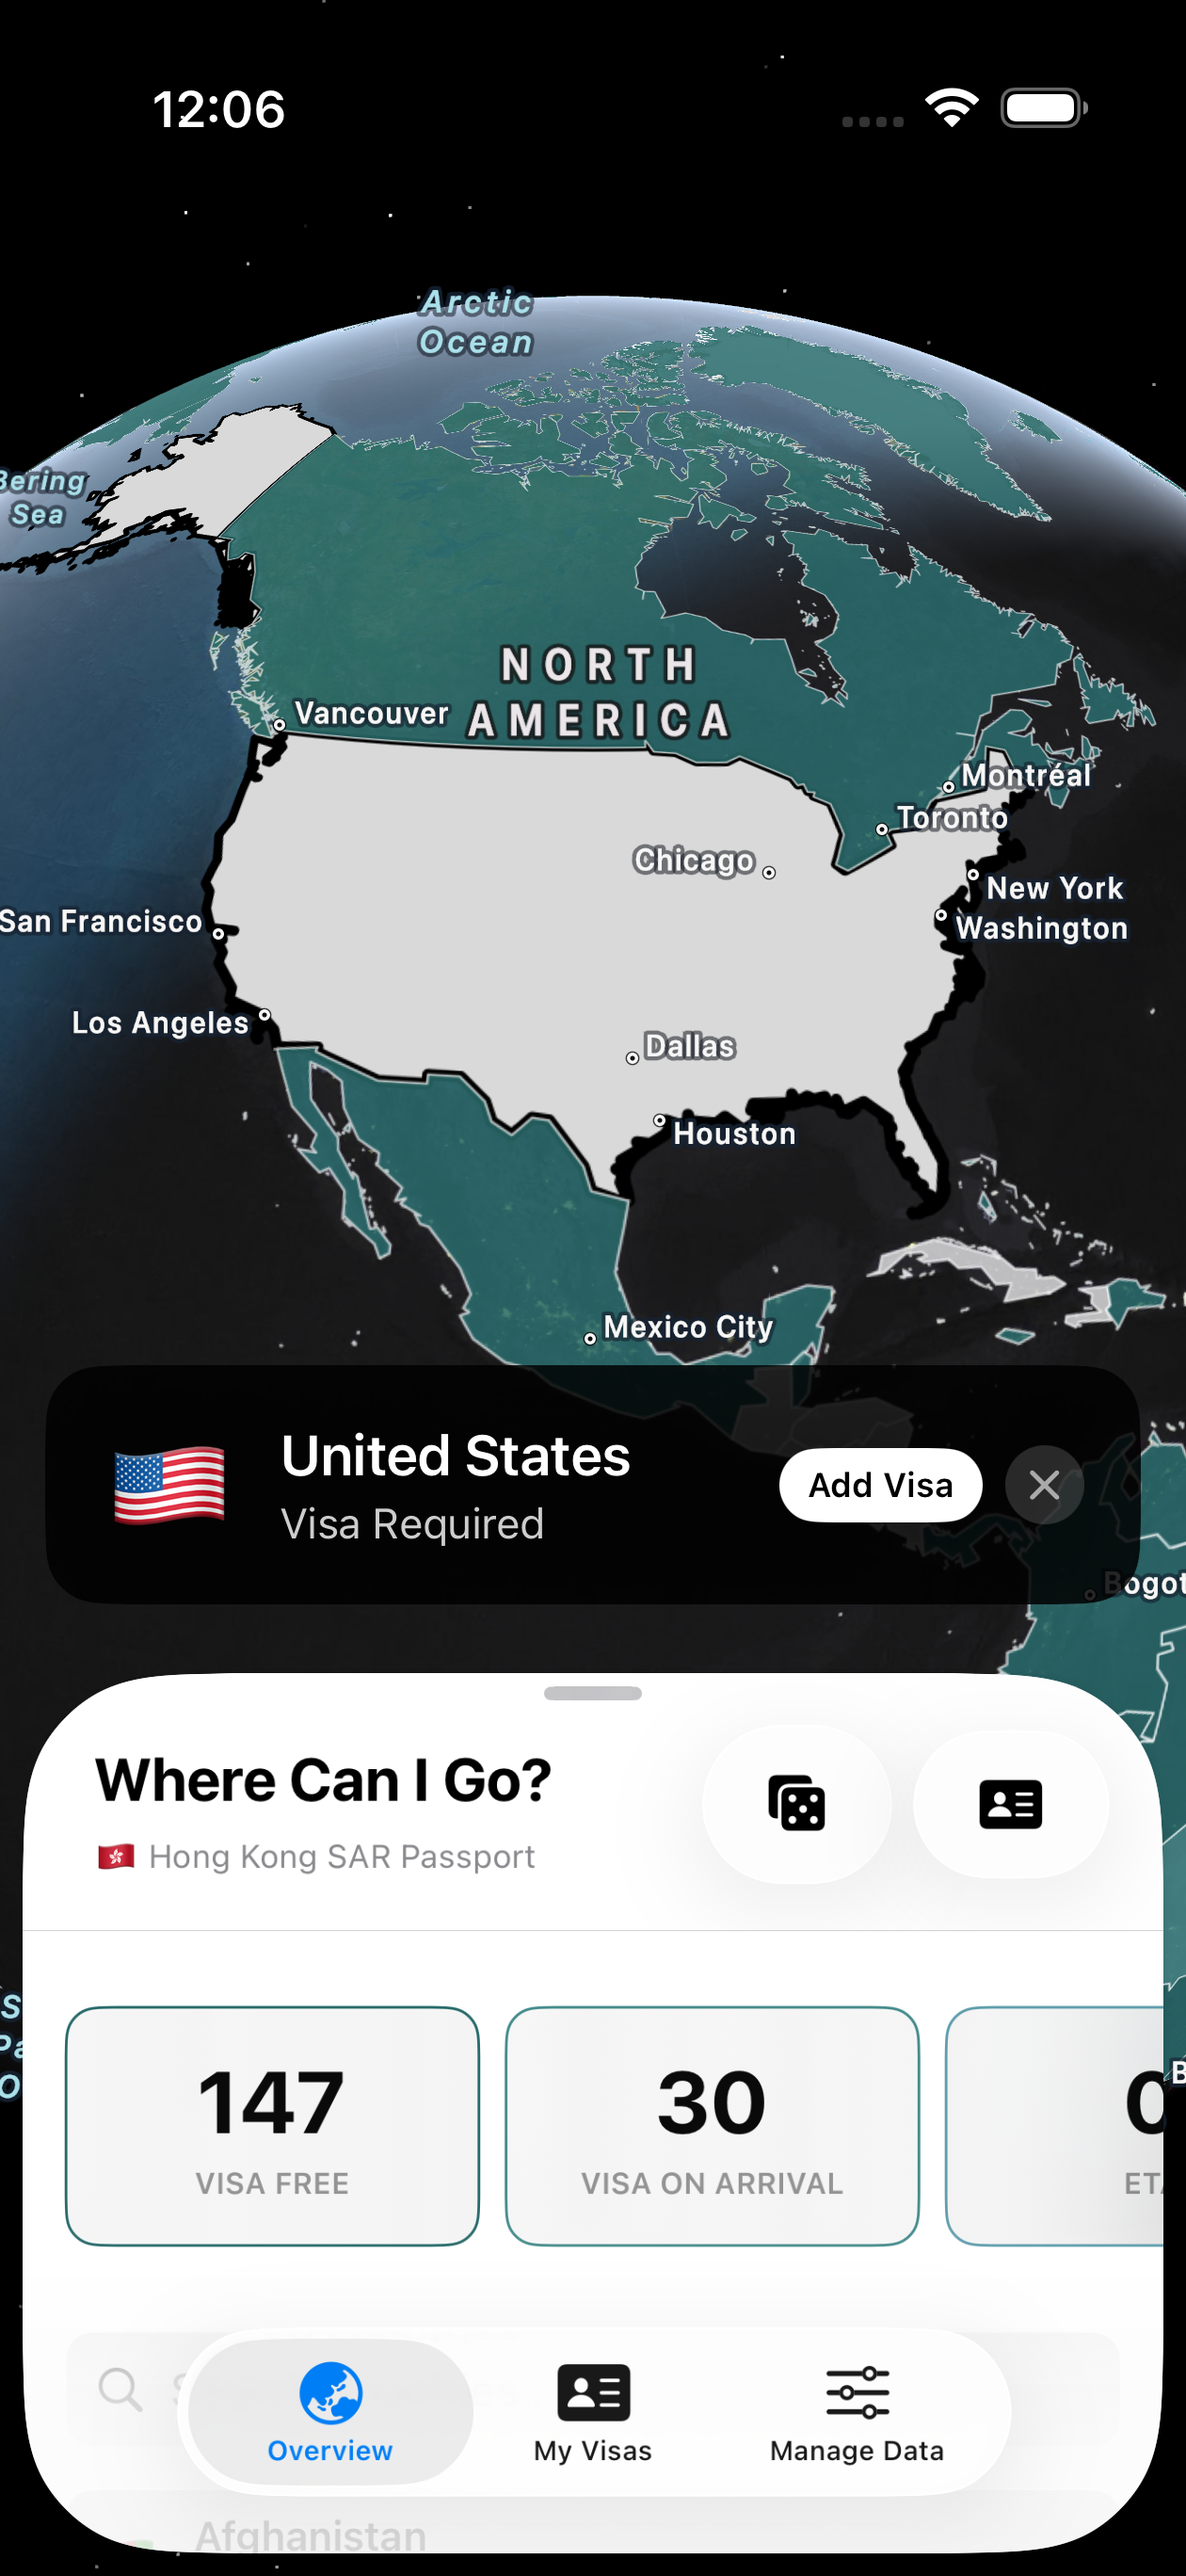
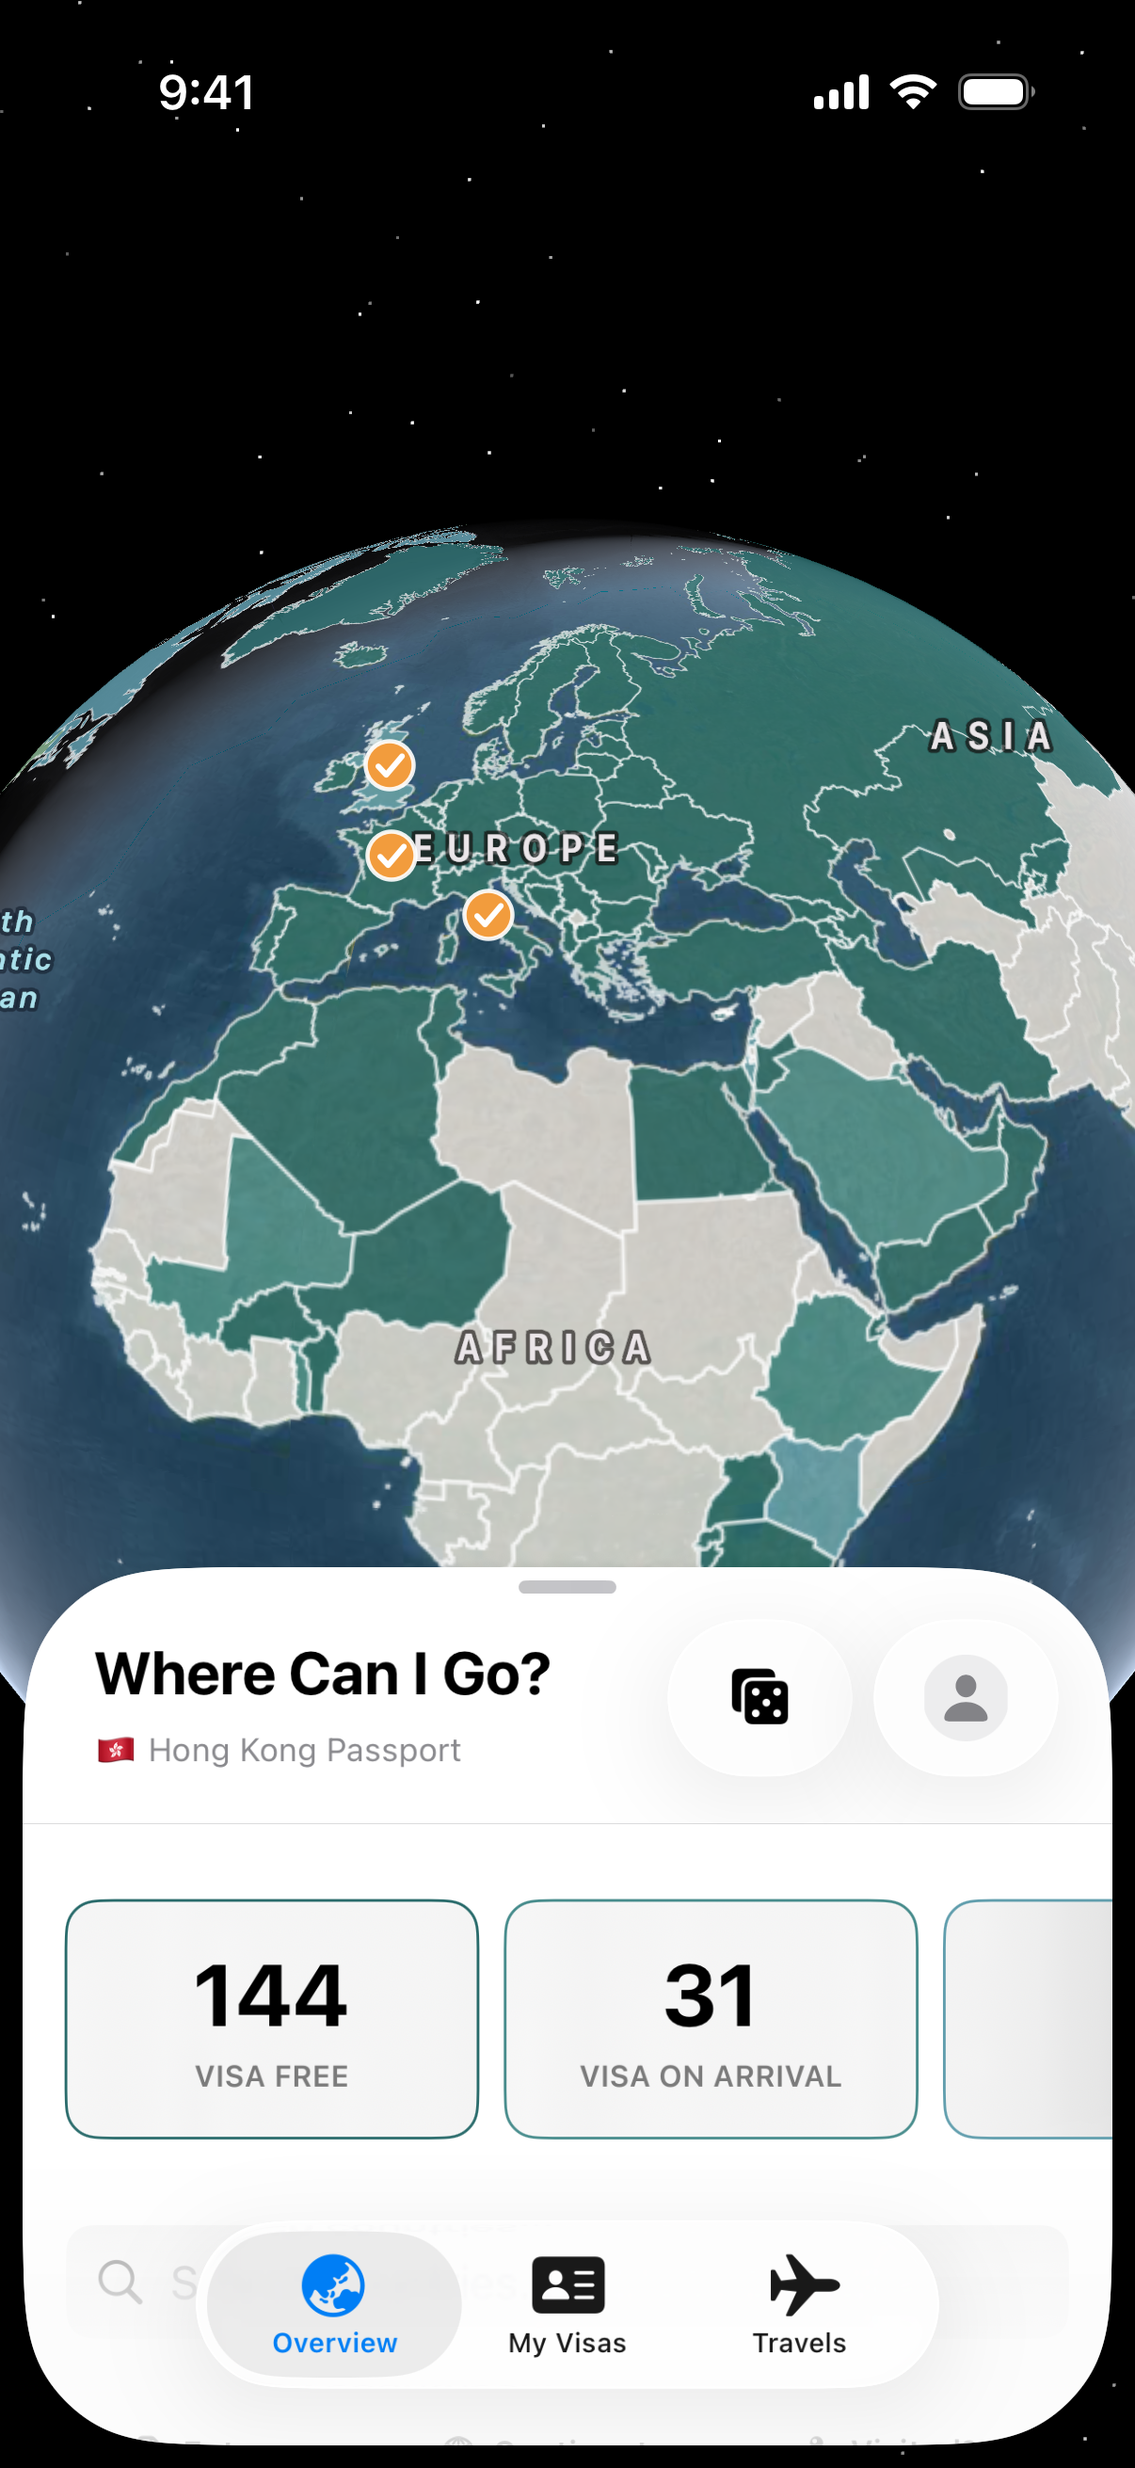
Update README screenshots

diff --git a/README.md b/README.md
@@ -2,9 +2,11 @@
 
 See which countries your passport can enter, keep track of your own visas, and log the places you have been and want to go. Your records stay on your iPhone or iPad.
 
-| Main View | My Visas | Manage Data |
+| World Map | Entry Overview | My Visas |
 |:---:|:---:|:---:|
-| ![Main view](assets/MainApp.png) | ![My Visas](assets/MyVisas.png) | ![Manage Data](assets/ManageData.png) |
+| ![World map with passport entry requirements and visited countries](assets/MainApp.png) | ![Entry overview with visa categories, search and country filters](assets/Overview.png) | ![Saved personal visas and their validity dates](assets/MyVisas.png) |
+| **Travels** | **Wishlist** | **Travel Passport** |
+| ![Travel history with country, trip, continent and day totals](assets/Travels.png) | ![Wishlist with planned destinations](assets/Wishlist.png) | ![Shareable travel passport with visited countries highlighted](assets/TravelPassport.png) |
 
 ## For Users
 
